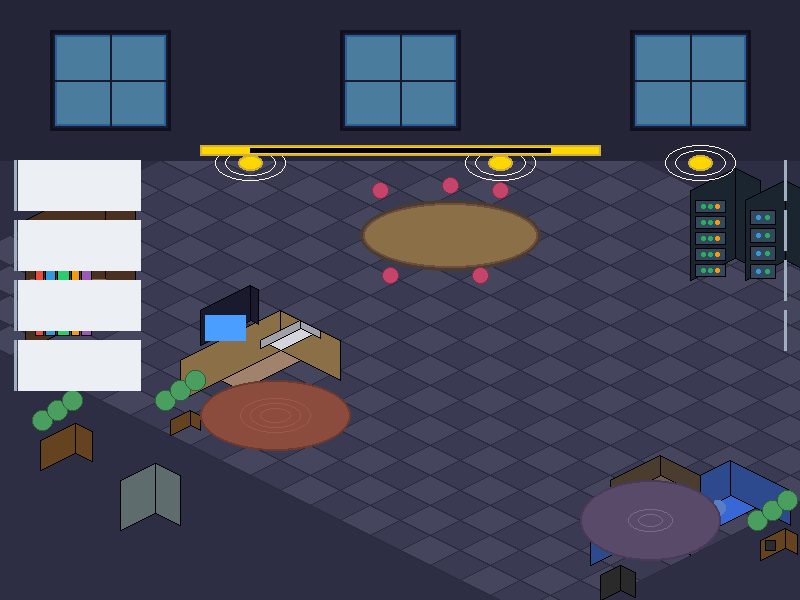
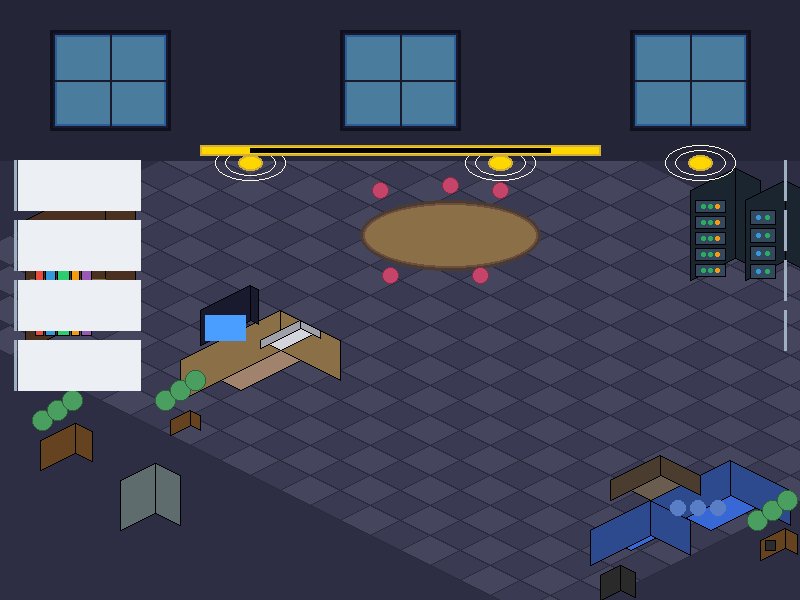
style: 移除地毯装饰
根据用户反馈，删除了办公室中的地毯：
- 移除办公桌前的红棕色地毯
- 移除沙发区的紫色地毯
- 保持办公室简洁风格

更新内容：
- 修改 create_isometric_office.py 删除地毯绘制代码
- 重新生成 office_bg.png
- 办公室视觉效果更简洁专业

Changed region(s): [[0.7188, 0.78, 0.9062, 0.93], [0.25, 0.63, 0.4375, 0.75]]

diff --git a/create_isometric_office.py b/create_isometric_office.py
@@ -192,17 +192,8 @@ for x in [250, 500, 700]:
     draw.ellipse([x-25, 150, x+25, 175], outline='#fff9e6', width=1)
     draw.ellipse([x-35, 145, x+35, 180], outline='#fff9e6', width=1)
 
-# === 地毯（装饰）===
-# 办公桌前的小地毯
-draw.ellipse([200, 380, 350, 450], fill='#8B4B3D', outline='#6d3a2f', width=2)
-# 花纹
-for r in [15, 25, 35]:
-    draw.ellipse([275-r, 415-r//2, 275+r, 415+r//2], outline='#a0564a', width=1)
-
-# 沙发区的地毯
-draw.ellipse([580, 480, 720, 560], fill='#5a4a6a', outline='#4a3a5a', width=2)
-for r in [12, 22]:
-    draw.ellipse([650-r, 520-r//2, 650+r, 520+r//2], outline='#7a6a8a', width=1)
+# === 地毯已移除 ===
+# 用户反馈：地毯太丑，已删除以保持简洁风格
 
 # === 墙面装饰 ===
 # 公司logo/标识牌
